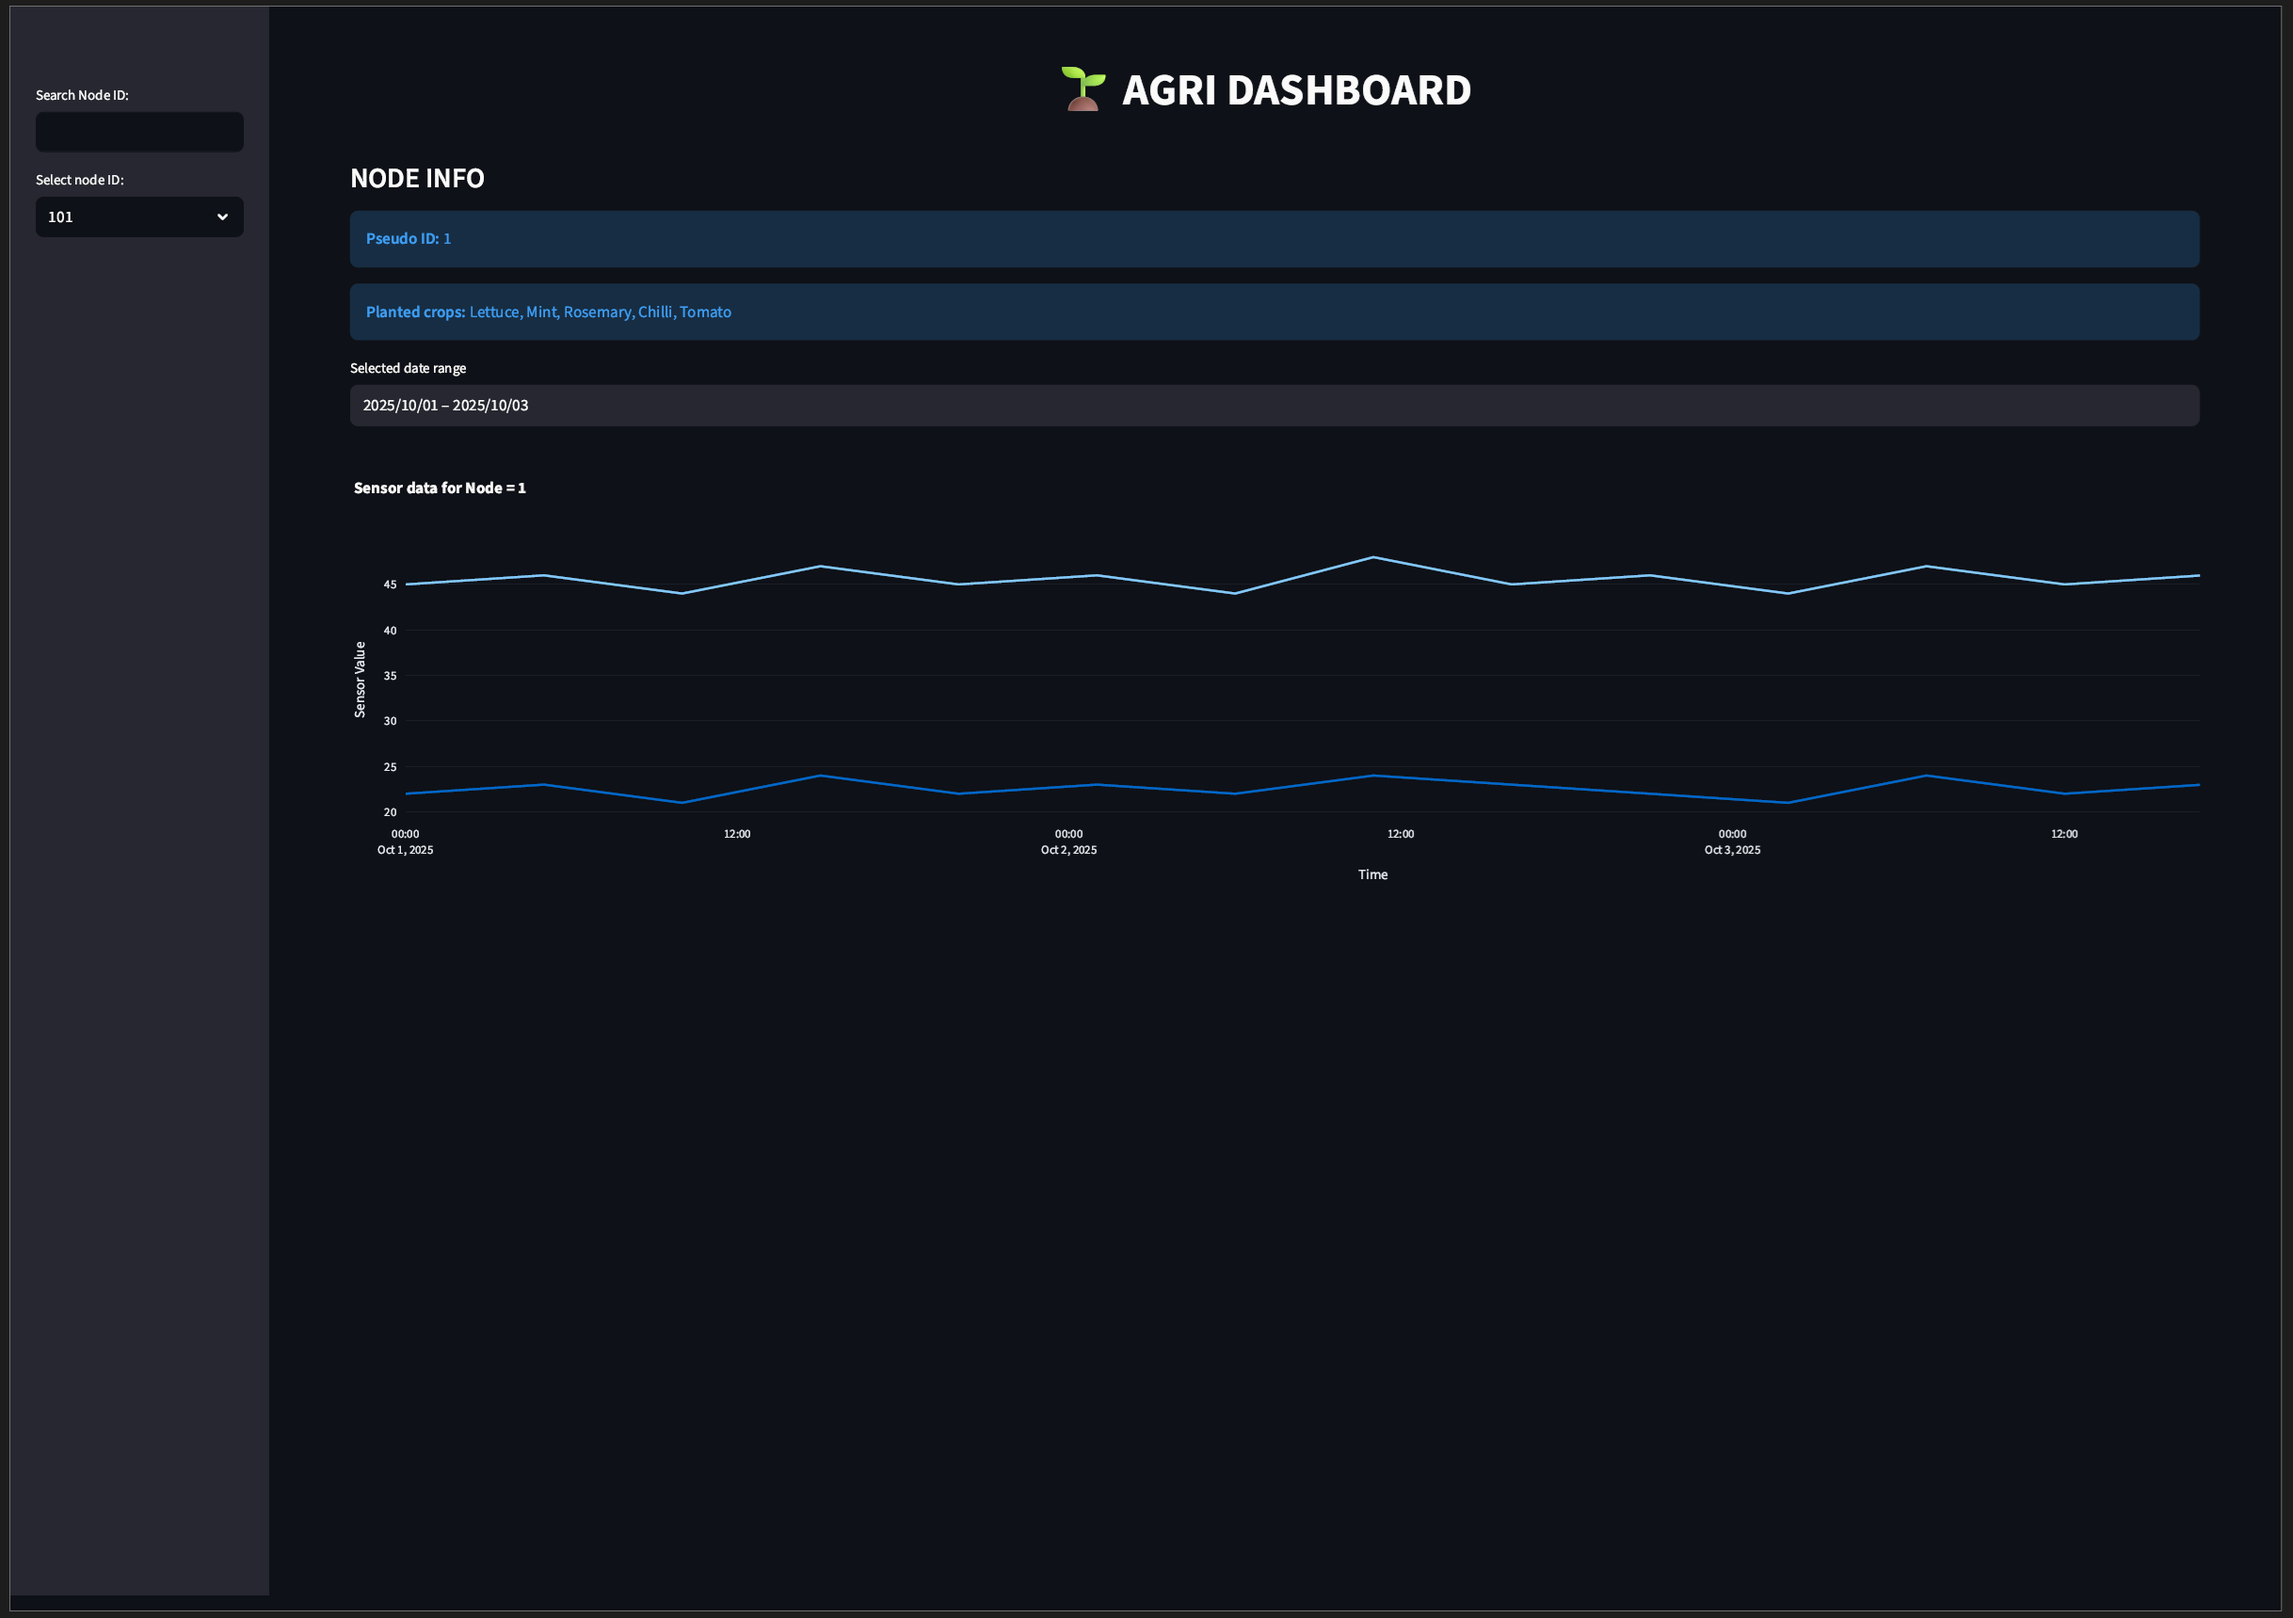
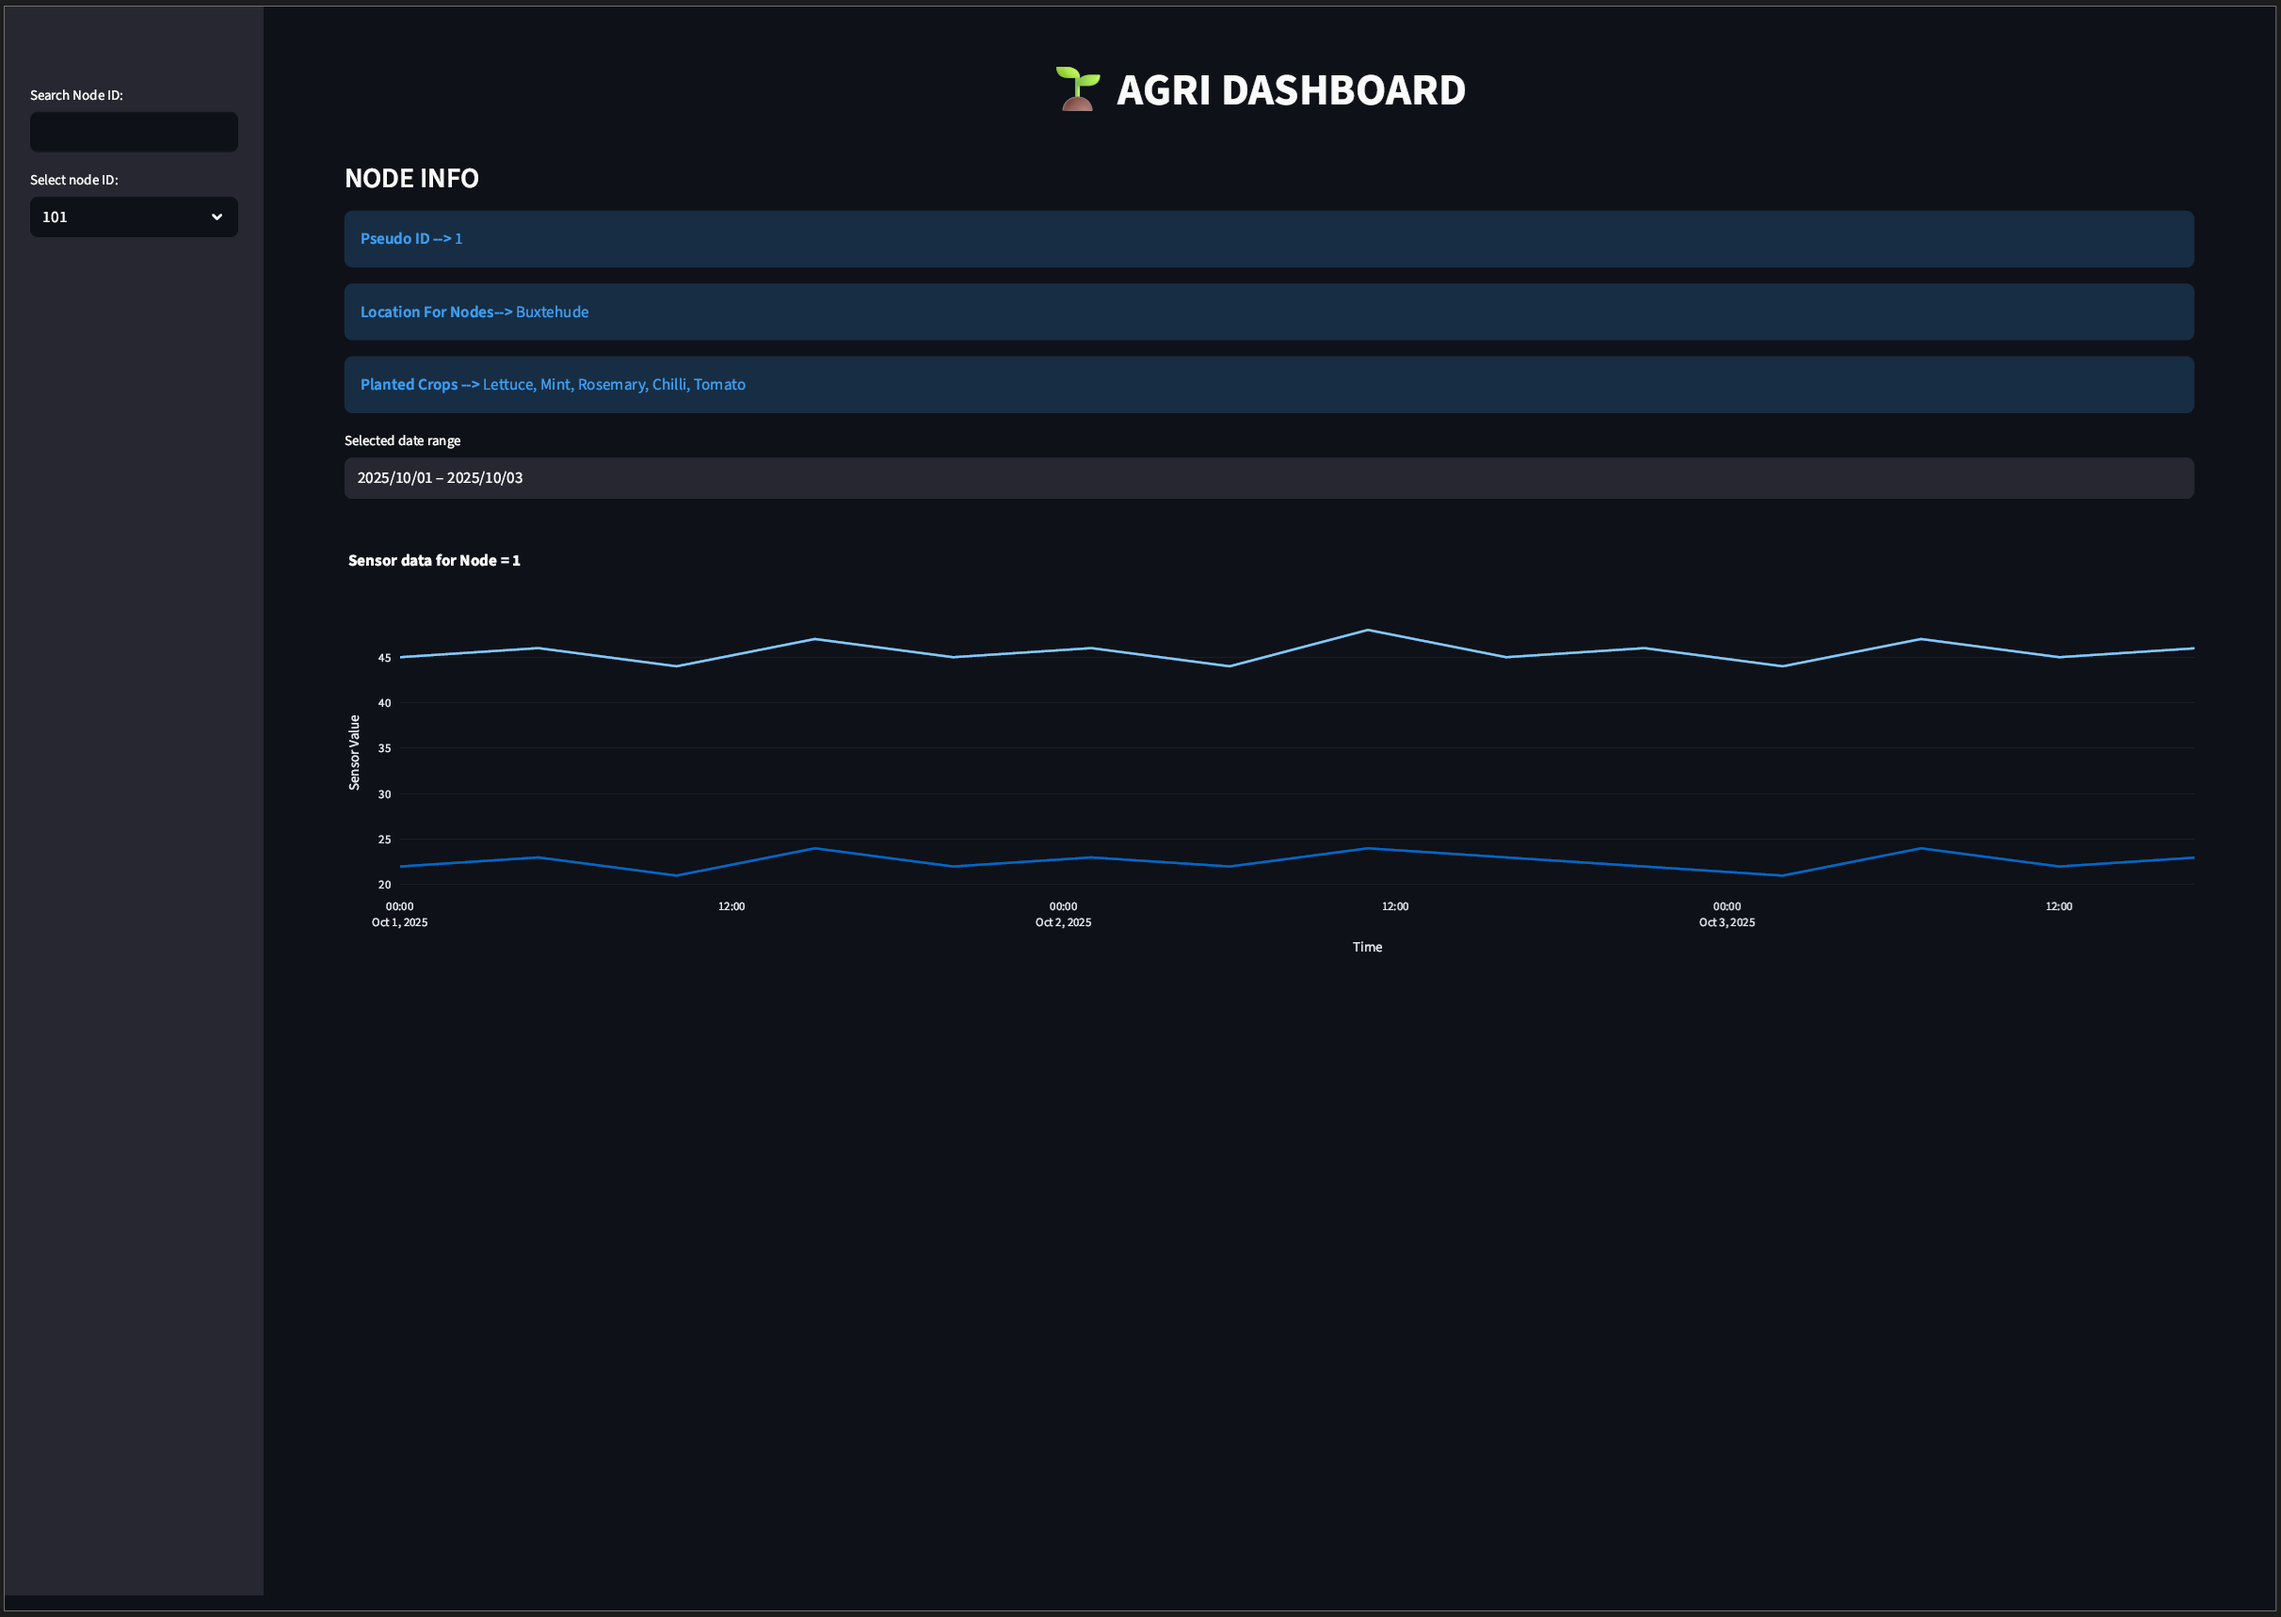
added new images and location view to dashboard

diff --git a/app/streamlit_dash.py b/app/streamlit_dash.py
@@ -36,7 +36,7 @@ def fetch_node_and_crop_data(node_id):
     log_operation("Fetching crops data for respective nodes from DB", ST_LOGS_PATH)
     conn = get_connection()
     query = """
-            SELECT n.pseudo_id, c.crop_name, s.moisture_data, s.temperature_data, s.last_updated
+            SELECT n.pseudo_id, n.location, c.crop_name, s.moisture_data, s.temperature_data, s.last_updated 
             FROM ((esp_nodes AS n 
             INNER JOIN crops AS c ON n.pseudo_id = c.pseudo_id) 
             INNER JOIN sensors AS s ON n.pseudo_id = s.pseudo_id)
@@ -86,12 +86,14 @@ if selected_node:
         st.warning("No data found for selected node")
     else:
         pseudo_id = node_df['pseudo_id'].iloc[0]
+        location = node_df['location'].iloc[0]
         crop_names = ", ".join(node_df['crop_name'].unique())
 
         #display pseudo_id and connected crops
         st.markdown(f"### NODE INFO")
-        st.info(f"**Pseudo ID:** {pseudo_id}")
-        st.info(f"**Planted crops:** {crop_names}")
+        st.info(f"**Pseudo ID -->** {pseudo_id}")
+        st.info(f"**Location For Nodes-->** {location}")
+        st.info(f"**Planted Crops -->** {crop_names}")
 
         #date range selection
         min_date = node_df['last_updated'].min()
